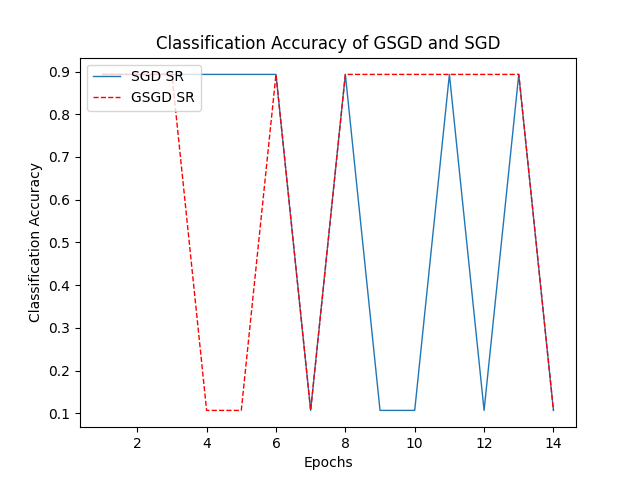
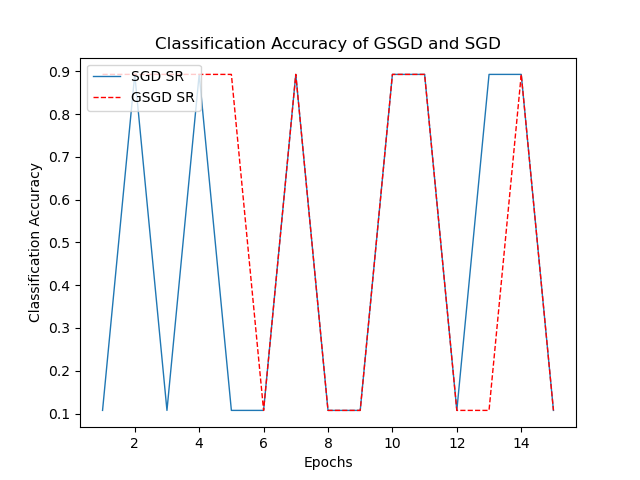
minor changes

diff --git a/Enhanced-ANN-GSGD/main.py b/Enhanced-ANN-GSGD/main.py
@@ -29,9 +29,9 @@ def GSGD_ANN(filePath):
     NC, x, y, N, d, xts, yts = readData(filePath)
     
     #model parameters
-    l_rate =   0.0001893234363294461#0.00011852732093870824#0.00010926827346753853 #0.0002814354245#0.0002216960781458557#0.0002314354244 #0.000885 #0.061 #0.00025 #0.5
-    n_hidden = 21#4
-    lamda = 0.5464585893711085#0.6980844659683136 #1e-06#0.0001  #Lambda will be used for L2 regularizaion
+    l_rate =   1.5717938603348136e-03#0.00011852732093870824#0.00010926827346753853 #0.0002814354245#0.0002216960781458557#0.0002314354244 #0.000885 #0.061 #0.00025 #0.5
+    n_hidden = 17#4
+    lamda = 0.15936275945569203#0.6980844659683136 #1e-06#0.0001  #Lambda will be used for L2 regularizaion
     betas = (0.9, 0.999)
     beta = 0.9
     epsilon = 1e-8
@@ -48,13 +48,13 @@ def GSGD_ANN(filePath):
     network_GSGD = nn.Sequential(
                       nn.Linear(d, n_hidden),
                       nn.Sigmoid(),
-                      nn.Linear(n_hidden, 37),
+                      nn.Linear(n_hidden, 6),
                       nn.Sigmoid(),
-                      nn.Linear(37, 31),
+                      nn.Linear(6, 49),
                       nn.Sigmoid(),
-                      nn.Linear(31, 11),
+                      nn.Linear(49, 27),
                       nn.Sigmoid(),
-                      nn.Linear(11, 1),
+                      nn.Linear(27, 1),
                       nn.Sigmoid()).to(device=device)
     optimizer_GSGD = get_optimizer(network_GSGD, name=optim_name, cache= optim_params)
     network_SGD = copy.deepcopy(network_GSGD)
@@ -65,9 +65,9 @@ def GSGD_ANN(filePath):
     is_guided_approach = True
     rho = 7
     versetnum = 5 #number of batches used for verification
-    epochs = 30
+    epochs = 15
     revisitNum = 3
-    batch_size = 32
+    batch_size = 30#891#32
 
     #evaluate GSGD
     cache = is_guided_approach, rho, versetnum,epochs, revisitNum, N, network_GSGD, optimizer_GSGD, T, batch_size
@@ -259,8 +259,10 @@ def evaluate_algorithm(x, y, xts, yts, l_rate, n_inputs, n_outputs, lamda, cache
 
             for et in range(batch_nums):
                 network.zero_grad()
-                pred_y = network(new_X[et])
-                loss = loss_function(pred_y, new_y[et])
+                x_inst = new_X[et]
+                y_inst = new_y[et]
+                pred_y = network(x_inst.to(device= device))
+                loss = loss_function(pred_y, y_inst.to(device= device))
                 loss.backward()
                 optimizer.step()
 

diff --git a/Enhanced-ANN-GSGD/bayesian_parameter_tuning_guided.py b/Enhanced-ANN-GSGD/bayesian_parameter_tuning_guided.py
@@ -63,15 +63,15 @@ def train_evaluate(parameterization):
 def main_func():
     best_parameters, values, experiment, model = optimize(
         parameters=[
-            {"name": "lr", "type": "range", "bounds": [0.0001, 0.0002], "log_scale": True},
+            {"name": "lr", "type": "range", "bounds": [1e-6, 0.0002], "log_scale": True},
             {"name": "lambda", "type": "range", "bounds":[1e-6, 0.9]},
-            {"name": "momentum", "type": "range", "bounds":[0.1, 0.5]},
+            # {"name": "momentum", "type": "range", "bounds":[0.1, 0.5]},
             {"name": "n_hiddenA", "type": "range", "bounds": [1, 50]},
             {"name": "n_hiddenB", "type": "range", "bounds": [1, 50]},
             {"name": "n_hiddenC", "type": "range", "bounds": [1, 50]},
             {"name": "n_hiddenD", "type": "range", "bounds": [1, 50]},
             {"name": "batch_size", "type": "range", "bounds": [1, 1000]},        
-            {"name": "dampening", "type": "range", "bounds": [0.0, 0.9]},        
+            # {"name": "dampening", "type": "range", "bounds": [0.0, 0.9]},        
             {"name": "epochs", "type": "range", "bounds": [1, 30]},        
         ],
     
@@ -95,7 +95,7 @@ def net_train(net, train_loader, parameters, dtype, device):
     net.to(dtype=dtype, device=device)
     criterion = nn.MSELoss()
 
-    optim_params = l_rate, lamda, betas, beta, epsilon, parameters.get("momentum", 0.9), parameters.get("dampening", 0.001)
+    optim_params = l_rate, lamda, betas, beta, epsilon
     optims = ['SGD', 'ADAM', 'ADADELTA', 'RMSPROP', 'ADAGRAD']
     
     optim_name = optims[0] #update this to perform hyperparametr tuning for different optimizers
@@ -136,9 +136,9 @@ def init_net(parameterization, d):
     return model # return untrained model
 
 def get_optimizer(network, name, cache):
-    l_rate, lamda, betas, beta, epsilon, momentum, dampening = cache 
+    l_rate, lamda, betas, beta, epsilon= cache 
     if(name == 'SGD'):
-        return torch.optim.SGD(network.parameters(), lr=l_rate, weight_decay= lamda, momentum= momentum, dampening=dampening)
+        return torch.optim.SGD(network.parameters(), lr=l_rate, weight_decay= lamda)
     elif(name == 'ADAM'):
         return torch.optim.Adam(network.parameters(), lr=l_rate, betas= betas,  weight_decay= lamda)
     elif(name == 'ADADELTA'):

diff --git a/Enhanced-ANN-GSGD/network.py b/Enhanced-ANN-GSGD/network.py
@@ -17,8 +17,8 @@ def train_network(network, data_x, data_y, loss_function, optimizer):
 def get_optimizer(network, name, cache):
     l_rate, lamda, betas, beta, epsilon = cache 
     if(name == 'SGD'):
-        #return torch.optim.SGD(network.parameters(), lr=l_rate, weight_decay= lamda, momentum=0.4962894314251748, dampening=0.45076563535258174)
-        return torch.optim.SGD(network.parameters(), lr=l_rate, weight_decay= lamda, momentum=  0.22211635671555996, dampening= 0.8074596391059459)
+        return torch.optim.SGD(network.parameters(), lr=l_rate, weight_decay= lamda, momentum=0.2962894314251748, dampening=0.9 )
+        #return torch.optim.SGD(network.parameters(), lr=l_rate, weight_decay= lamda)
     elif(name == 'ADAM'):
         return torch.optim.Adam(network.parameters(), lr=l_rate, betas= betas,  weight_decay= lamda)
     elif(name == 'ADADELTA'):

diff --git a/Enhanced-ANN-GSGD/printFinalResults.py b/Enhanced-ANN-GSGD/printFinalResults.py
@@ -84,7 +84,7 @@ def generate_graphs(epochs, results_container , T= 0, graph_first_epoch = False)
             plt.plot(singleepochperm, singlepochSRSGD, 'r--', label='SGD Classification Accuracy', linewidth=1)
 
             plt.title('Success Rate of First Epoch')
-            plt.xlabel("Epochs")
+            plt.xlabel("Mini-Batches")
             plt.ylabel("Classification  Accuracy")
             plt.legend(loc=2)
 
